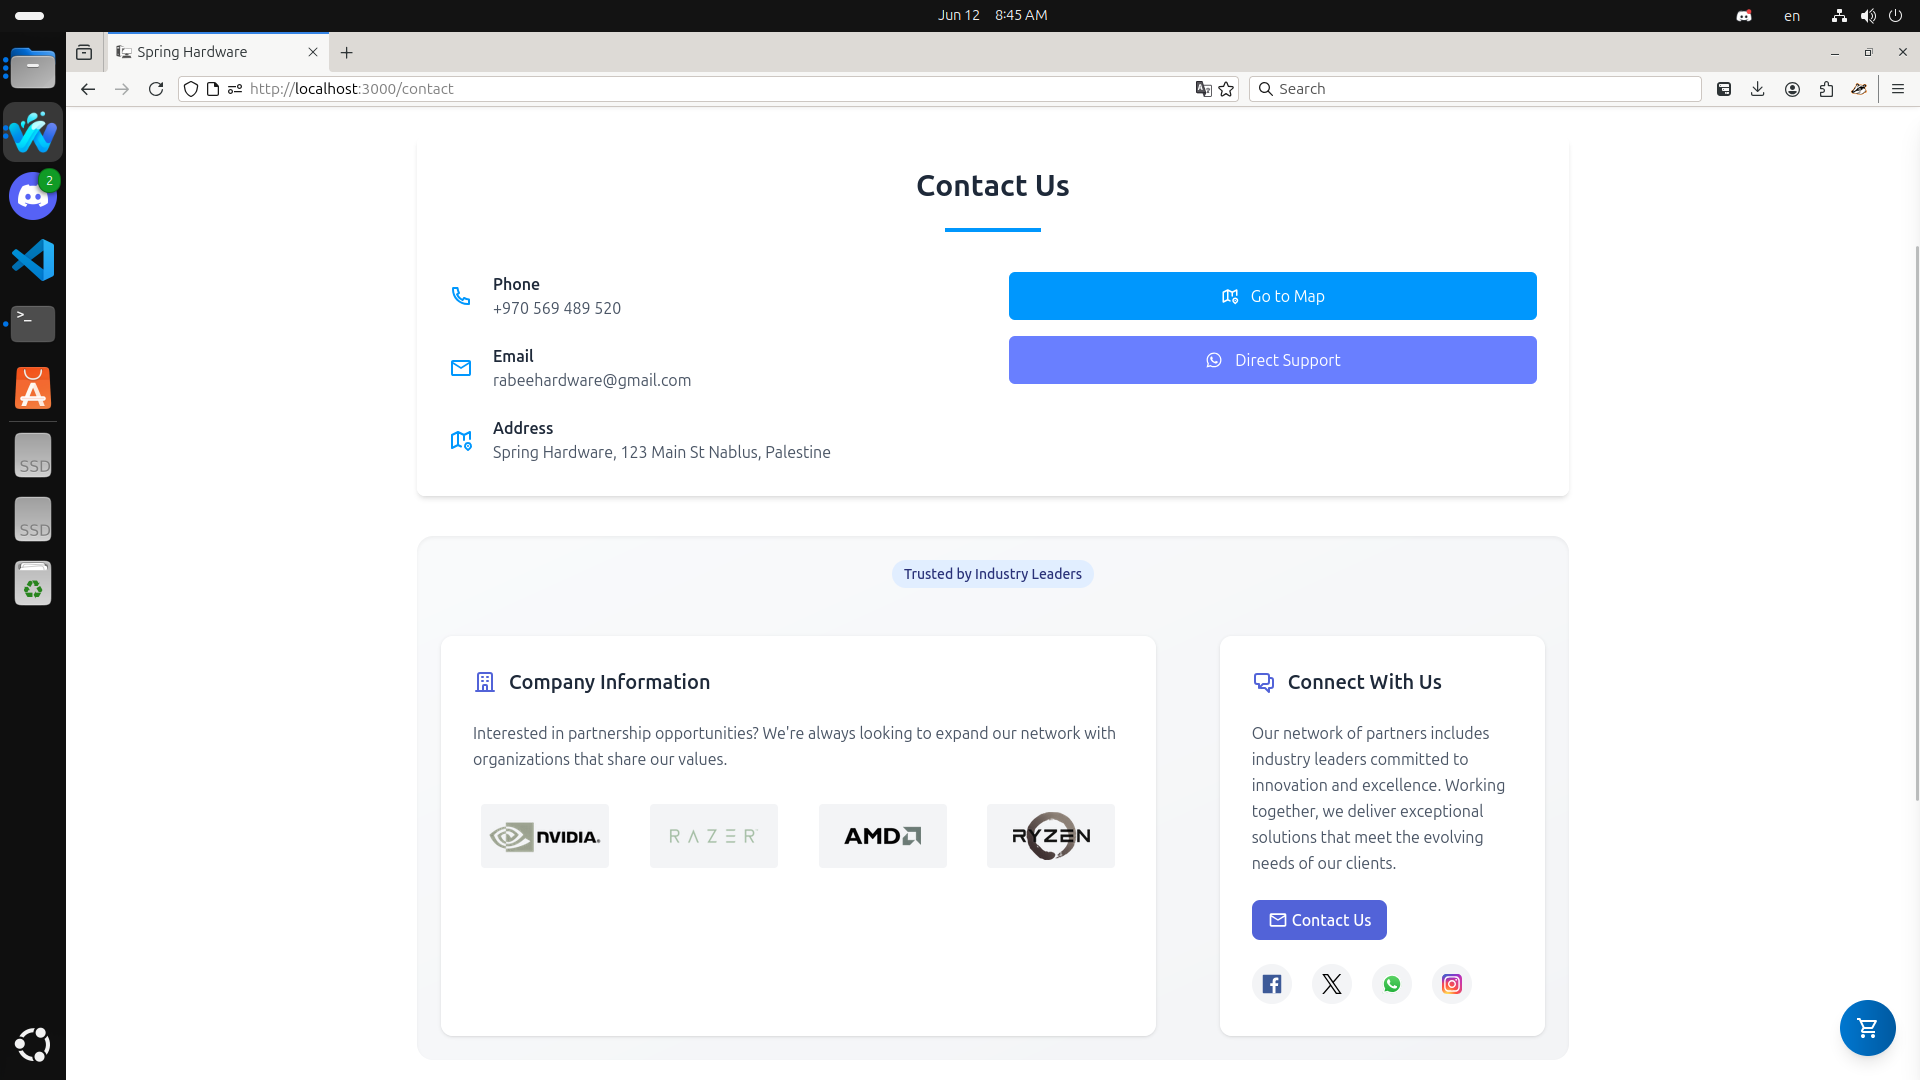
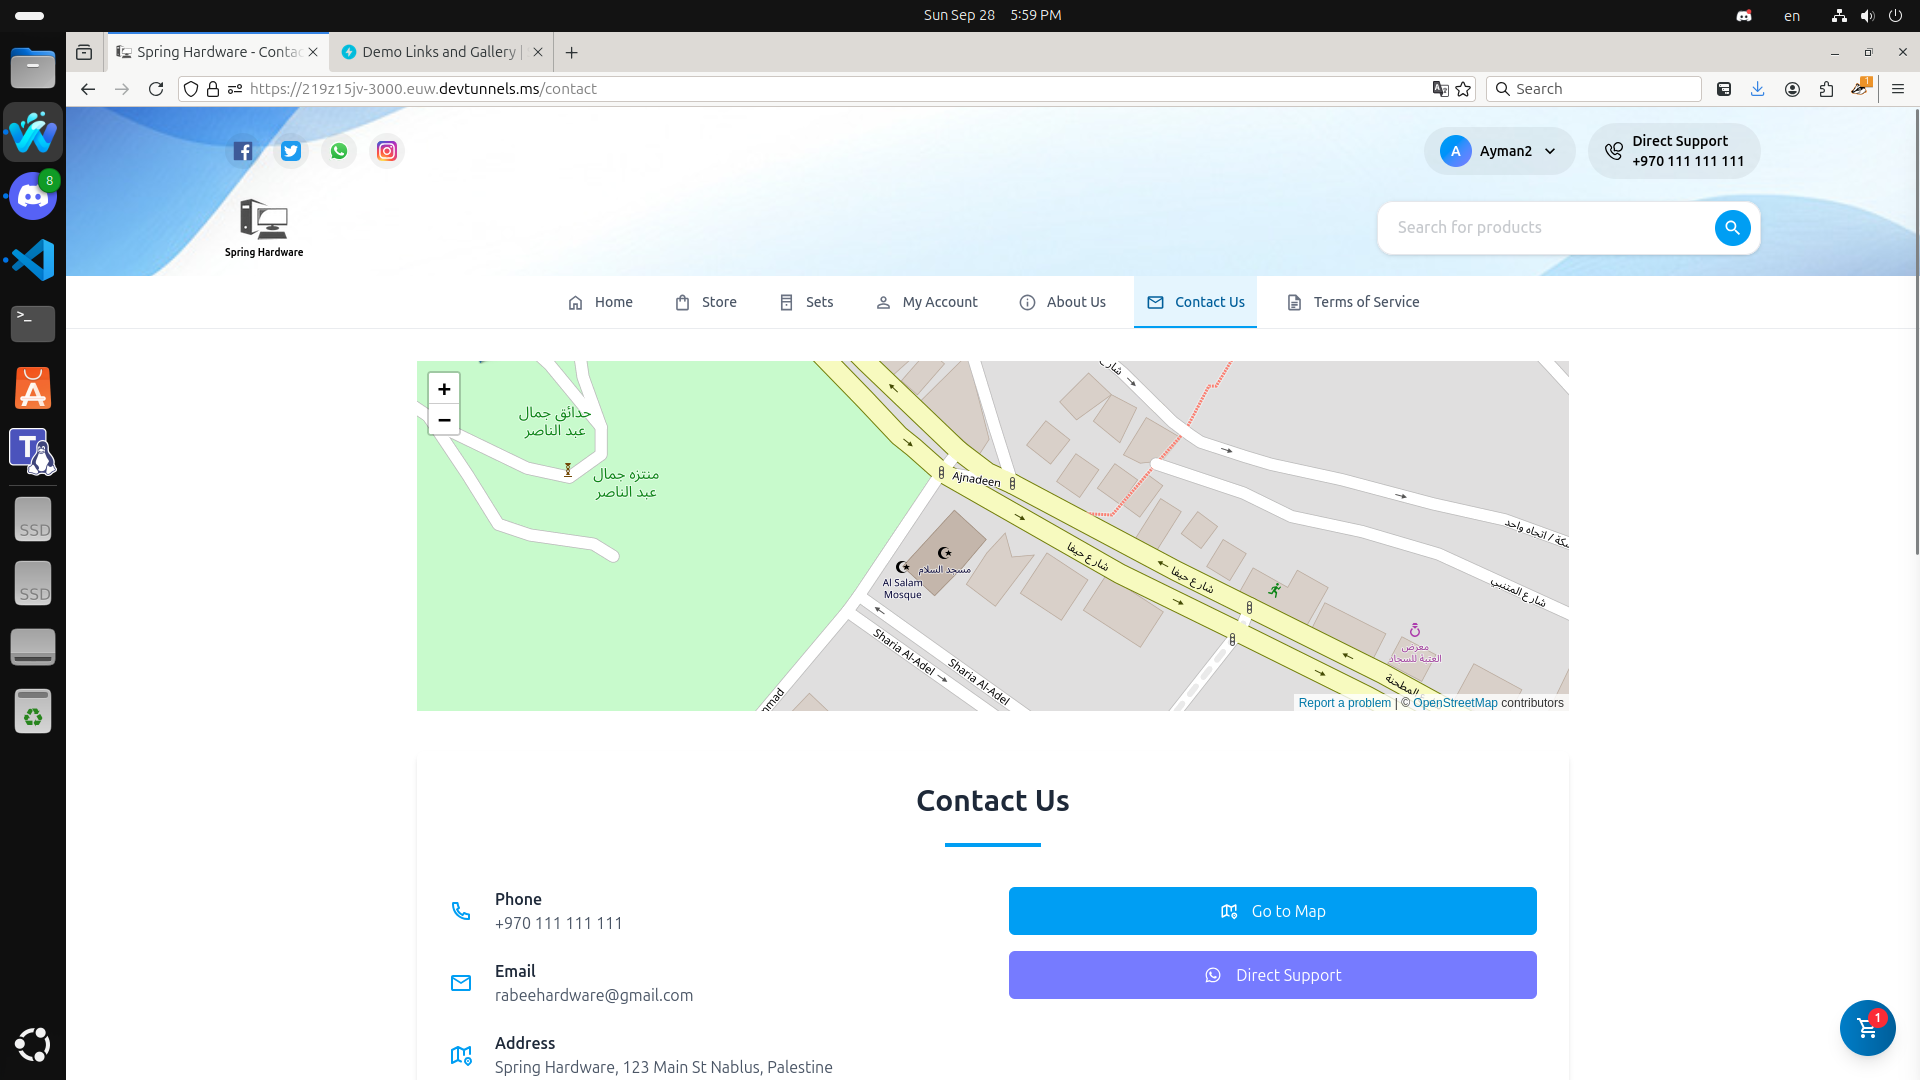
general improvements

diff --git a/docs/01-Overview/03-Demo Links-and-Gallery.md b/docs/01-Overview/03-Demo Links-and-Gallery.md
@@ -165,6 +165,7 @@ It will also show an icon if the account was made via Google.
 ### Contact Us Page
 
 ![Contact Us Page](../../static/gallery/21.png)
+![Contact Us Page](../../static/gallery/21.1.png)
 
 ---
 
@@ -342,9 +343,15 @@ You can also write any hidden info about the product in the forms (e.g. The loca
 
 ---
 
-### Timed-out IP screen
+### Timed-out IP screen (removed)
 
 ![Timed out screen](../../static/gallery/49.png)
+
+---
+
+### Admin: Help screen
+
+![Help screen](../../static/gallery/50.png)
 
 ---
 
@@ -356,4 +363,4 @@ You can also write any hidden info about the product in the forms (e.g. The loca
 
 (soon)
 
-_Last updated on September 19, 2025 by Ayman._
+_Last updated on September 28, 2025 by Ayman._

diff --git a/docs/01-Overview/02-Tech-Stack-Concepts.md b/docs/01-Overview/02-Tech-Stack-Concepts.md
@@ -783,6 +783,7 @@ This project uses the **Next.js App Router**, which organizes the application fi
         │   │   │   │   ├── SetForm.js
         │   │   │   │   ├── TeamForm.js
         │   │   │   │   └── ThemesForm.js
+        │   │   │   ├── Help.js
         │   │   │   ├── HtmlEditor.js
         │   │   │   ├── ImageList.js
         │   │   │   ├── NavigationTabs.js
@@ -948,4 +949,4 @@ This project uses the **Next.js App Router**, which organizes the application fi
 
 ---
 
-_Last updated on September 20, 2025 by Ayman._
+_Last updated on September 28, 2025 by Ayman._
